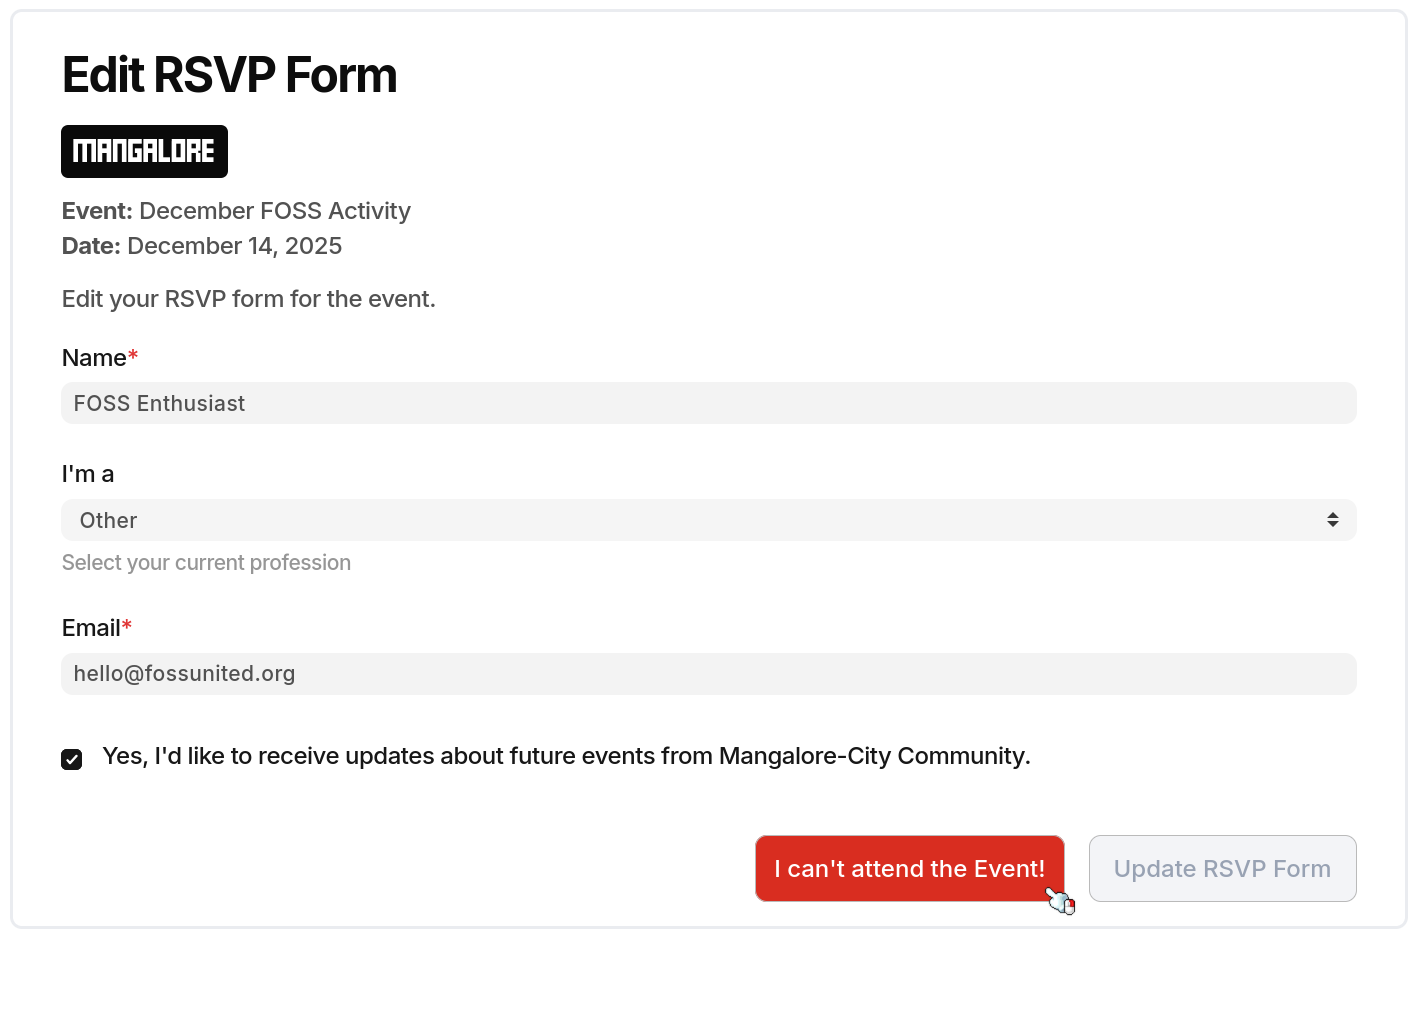
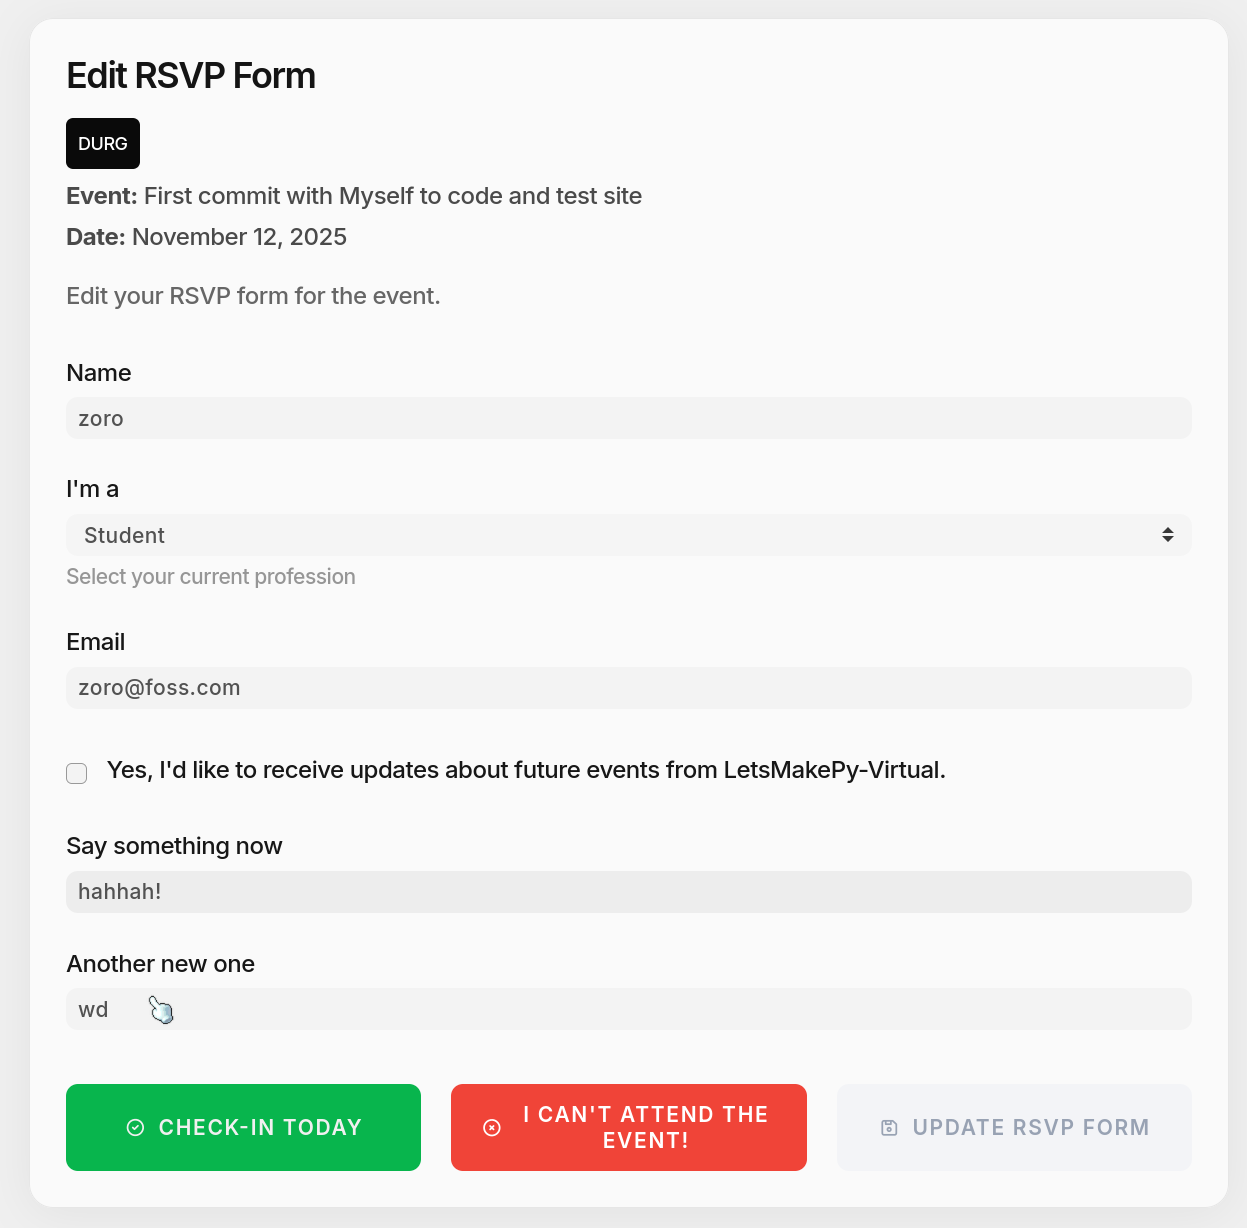
docs: events rsvp and changes (#1289)
* docs: add info on event rsvp check-ins

- based on the PR
  - #1286
  - #1287
  - #1288

* img: docs assets on rsvp check-in

* docs: event schedule info

* rearrange pages

* docs: some css

diff --git a/docs/docs/assets/custom.css b/docs/docs/assets/custom.css
@@ -1,13 +1,26 @@
+.md-content h2::before,
+.md-content h3::before,
+.md-content h4::before,
+.md-content h5::before,
+.md-content h6::before {
+  content: "";
+  display: block;
+  width: 100%;
+  height: 1px;
+  background: var(--md-default-fg-color--light);
+  margin-bottom: 1.2rem;
+}
+
 .md-content h1,
 .md-content h2,
 .md-content h3,
 .md-content h4,
 .md-content h5,
 .md-content h6 {
-  color: var(--md-primary-fg);
+  color: var(--md-primary-bg--dark);
   font-weight: 700;
-  margin-top: 1.6em;
-  margin-bottom: 0.6em;
+  margin-top: 1rem;
+  margin-bottom: 1.2rem;
 }
 
 .md-nav__link {

diff --git a/docs/docs/event-rsvp.md b/docs/docs/event-rsvp.md
@@ -24,6 +24,19 @@ event.
 
 ![RSVP live](./assets/rsvp-live.png)
 
+## Restrictive access to event
+
+You can manage RSVP to be restrictive based on organizer's approval basis.
+
+Simply you can enable the toggle switch on "Require organizer approval" while creating RSVP as shown above or you can also make the change via editing RSVP later if you decide so.
+![Enable RSVP requires approval](./assets/rsvp-req-approval.png)
+
+In dashboard RSVP insights tab you'll see four group in list view for "Attendance status". Attendees will get a confirmation email on status if accepted or denied their request.
+
+Note: On clicking reject you'd get a fair warning (popup) to confirm rejection.
+
+![Approve the RSVPs](./assets/rsvp-approve.png)
+
 ## Update RSVP form
 
 - If necessary, you can use the `"Web Form"` tab to update the form e.g.
@@ -47,6 +60,12 @@ event.
 
 ![RSVP Insights](./assets/rsvp-insights.png)
 
-**Note:** Please note that responses to custom fields in the RSVP form cannot
-be downloaded using the `"Download"` button on the `"Insights"` tab. Please
-reach out to the Foundation if and when that information is required.
+As of October 2025 you can download the full RSVP responses (custom fields) in CSV format.
+
+## Event Check-ins
+
+Attendees are expected to do self check-in via their [Edit RSVP form](./attend-event.md#Checkin-to-an-Event)
+
+This will reflect on the dashboard insights in ListView based on date and this information can also be download as CSV.
+
+![RSVP Check-in](./assets/rsvp-checkin.png)

diff --git a/docs/docs/event-schedule.md b/docs/docs/event-schedule.md
@@ -3,4 +3,25 @@
 After the review volunteers submit reviews for the event proposals, the event
 volunteers have the responsibility to select the final talks for the event.
 
-(To be completed)
+When talks have been finalized, its easier to make schedule for the events.
+Navigate to Events dashboard > Schedule
+
+![Add event schedule](./assets/event-schedule.png)
+
+You can add Hall names to group where talks takes place. Then you can choose a date when talks occur.
+
+When you click on date option, you'd likely see an placeholder event or simply empty list.
+
+You can click on "+ Add Schedule" to add each proposal as talk by choosing a category, hall and the allotted time.
+
+You can skip adding linked proposal if category is break or "Opening note". Ideally everything else is expected go with accepting a proposal and linking them for schedule as talk.
+
+- Talk video link (URL) can be added (ideally after event ends) to provide video link of the recorded talk or if before (some previous talk given) to show up in schedule cards.
+  This will also reflect on the CFP page to show YouTube icon to link to this talk video.
+
+![Talk video linked via schedule](./assets/cfp-talk-video.png)
+
+- For long schedule you can use the grouping and sort by feature to navigate faster with the whole agenda.
+- You can see the schedule agenda via "Go to schedule page"
+
+- Schedule page also provides downloading whole agenda in various formats.

diff --git a/docs/docs/attend-event.md b/docs/docs/attend-event.md
@@ -42,9 +42,18 @@ prevents wasting time, energy, money, and food.
 
 ![Visit RSVP tab for RSVP'ed event](./assets/rsvp-update.png)
 
-- You can click on "I can't attend the Event" to inform organizers that you won't attend.
+- You can click on "I can't attend the Event" to inform organizers that you won't be able to attend the event.
 
 ![Clear RSVP](./assets/rsvp-submission-update.png)
 
 - You can also confirm to re-attend via same button as it changes to "I'll attend the Event!" and
   click "Update" to confirm the changes.
+
+## Checkin to an Event
+
+You can do self check-in for an event during the event days via your Edit RSVP form as above.
+
+It'll show "Check-in for Today" to make attendance of the day.
+This will help the organizers to have statistics on event management and plan further. This can be viewed by organizer via [dashboard ListView](event-rsvp.md#event-check-ins)
+
+Note: Check-in button will only be shown during the event days (start till end date). Also you can only check-in once per day.
